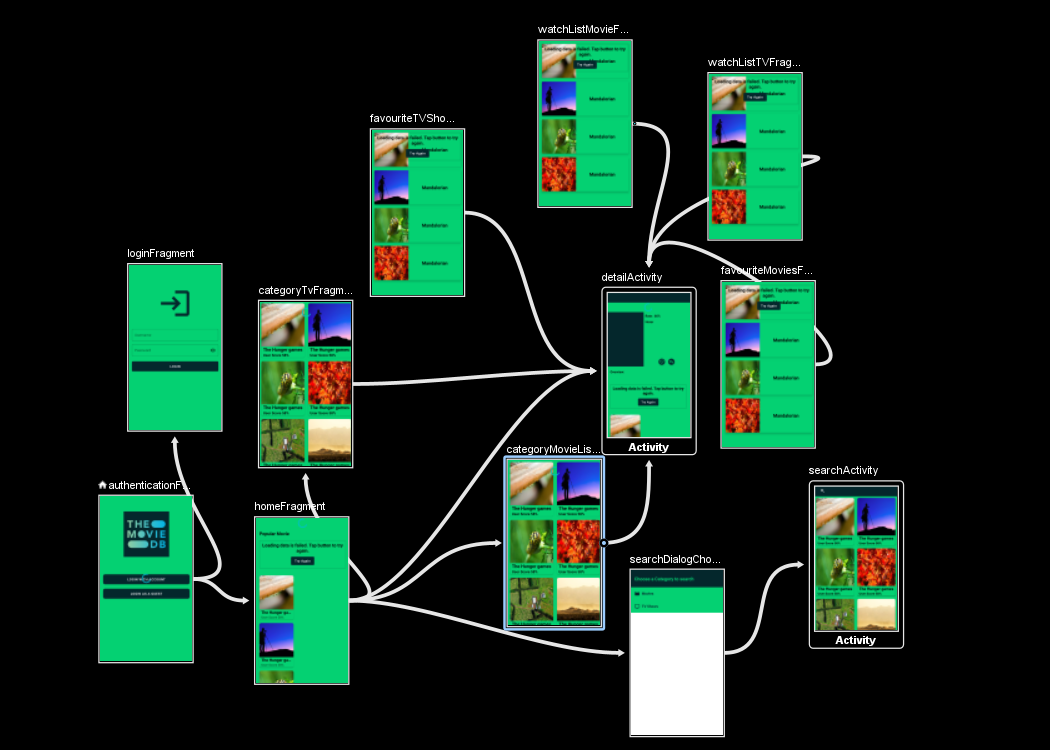
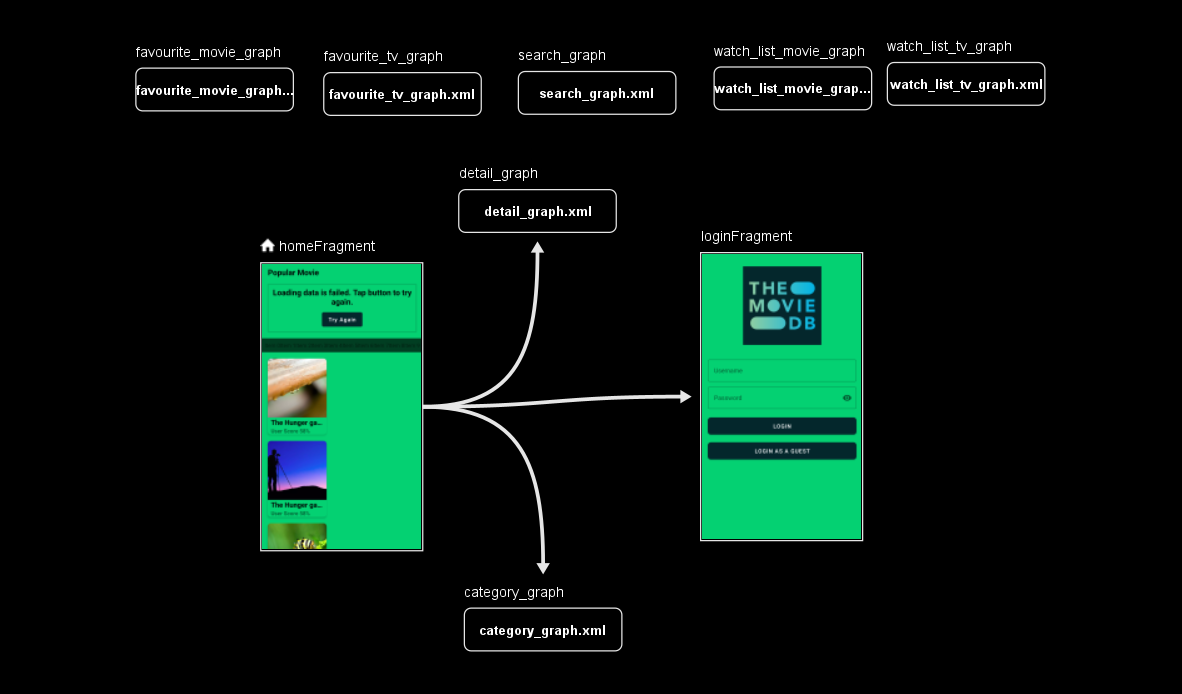
Update README.md

diff --git a/app/src/test/java/com/example/mymoviddb/login/LoginRepositoryTest.kt b/app/src/test/java/com/example/mymoviddb/login/LoginRepositoryTest.kt
@@ -1,8 +1,8 @@
 package com.example.mymoviddb.login
 
-import com.example.mymoviddb.core.mock.FakeRemoteServer
 import com.example.mymoviddb.core.datasource.remote.NetworkService
 import com.example.mymoviddb.core.datasource.remote.moshi
+import com.example.mymoviddb.core.mock.FakeRemoteServer
 import com.example.mymoviddb.core.model.GuestSessionModel
 import com.example.mymoviddb.core.model.ResponsedBackend
 import com.example.mymoviddb.core.model.Result
@@ -10,7 +10,8 @@ import com.squareup.moshi.JsonAdapter
 import kotlinx.coroutines.ExperimentalCoroutinesApi
 import kotlinx.coroutines.ObsoleteCoroutinesApi
 import kotlinx.coroutines.test.runBlockingTest
-import org.hamcrest.CoreMatchers.*
+import org.hamcrest.CoreMatchers.`is`
+import org.hamcrest.CoreMatchers.notNullValue
 import org.hamcrest.MatcherAssert.assertThat
 import org.junit.Assert.fail
 import org.junit.Before
@@ -25,7 +26,7 @@ class LoginRepositoryTest {
     private lateinit var access: LoginRepository
 
     @Before
-    fun setupViewModel() {
+    fun setupRepository() {
         fakeRemoteSource = FakeRemoteServer()
         access = LoginRepository(fakeRemoteSource)
         errorConverter = moshi.adapter(ResponsedBackend::class.java)

diff --git a/README.md b/README.md
@@ -20,8 +20,28 @@ My Movie DB Using android Jetpack, include :
 * [Moshi](https://github.com/square/moshi) - Convert JSON to Kotlin Object Using Moshi Converter.
 * [Glide](https://bumptech.github.io/glide/) - Load Image from API
 
-## NAvigation Graph
+## Main Navigation
+This graph represent global navigation for this android application.
 ![Navigation Graph](/img/navigation_graph.png)
+
+## Search Graph
+![Navigation Graph](/img/search_graph.png)
+
+## Category Graph
+Category fragment in this graph represents all of popular movies, playing now movies, popular tv shows and currently airing tv shows.
+![Navigation Graph](/img/category_graph.png)
+
+## Favourite Movies Graph
+![Navigation Graph](/img/favourite_movies_graph.png)
+
+## Favourite TV shows Graph
+![Navigation Graph](/img/favourite_tv_shows_graph.png)
+
+## Watch List Movies Graph
+![Navigation Graph](/img/watch_list_movies_graph.png)
+
+## Watch List TV shows Graph
+![Navigation Graph](/img/watch_list_tv_shows_graph.png)
 
 ## Testing Result
 
